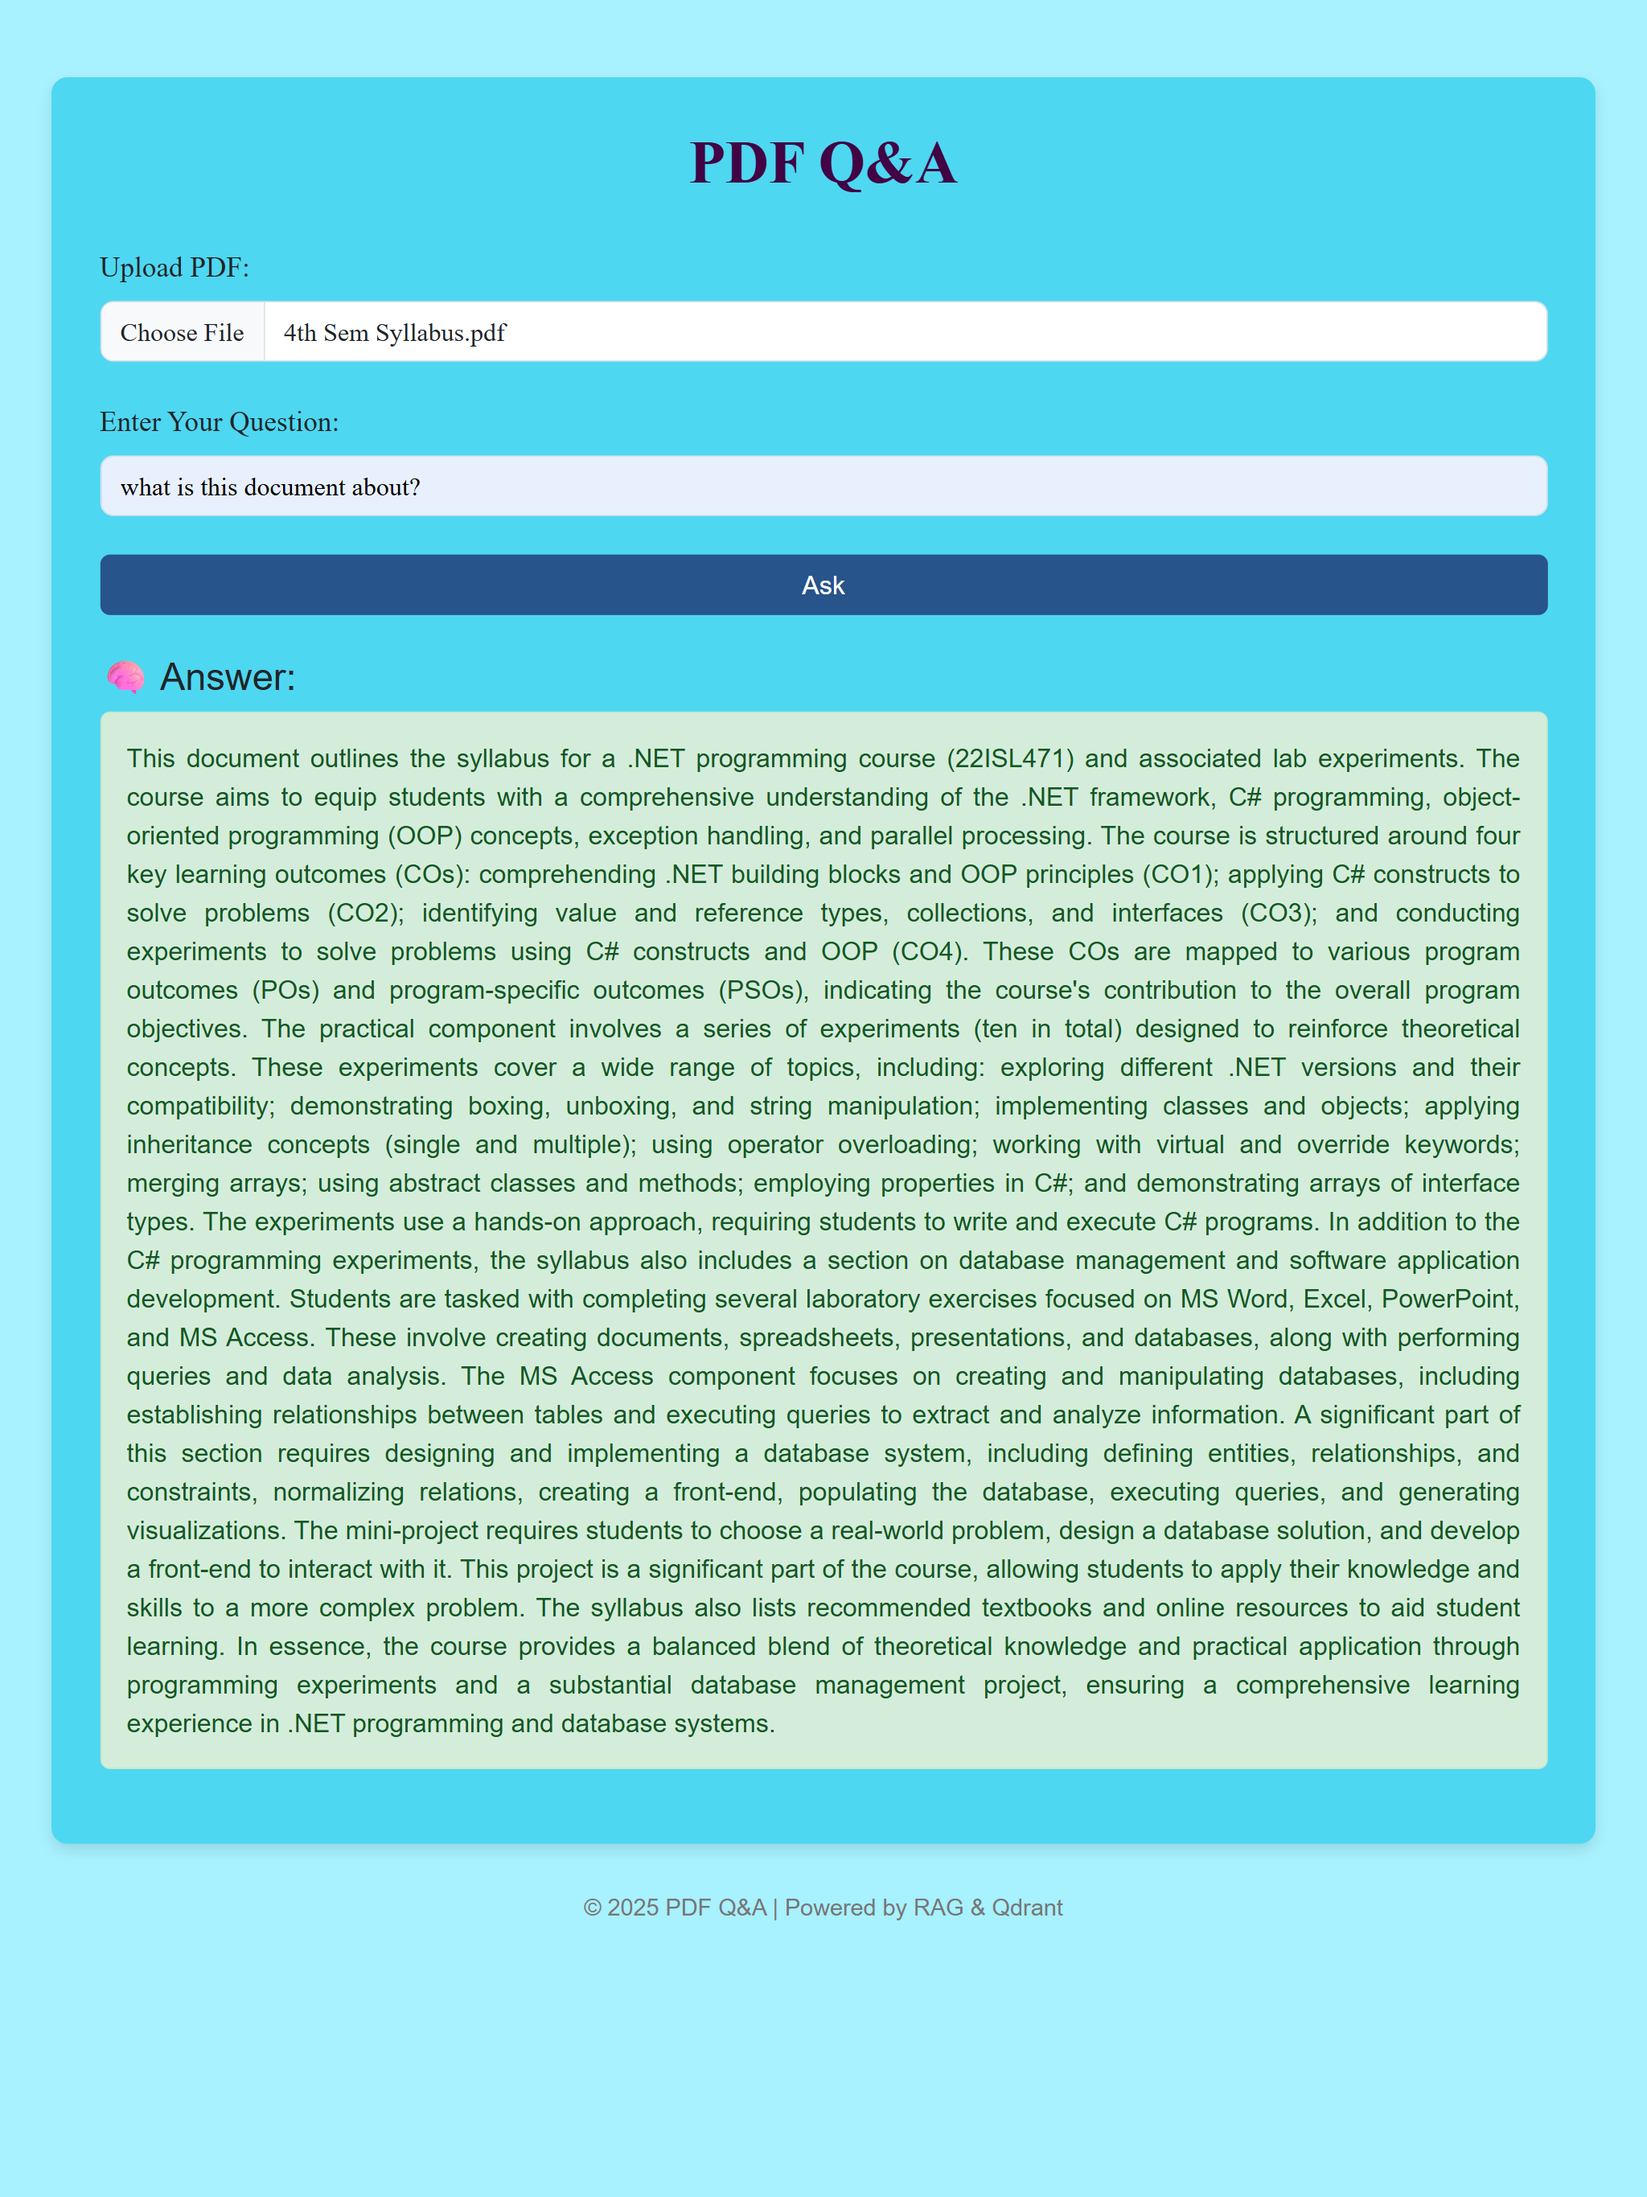
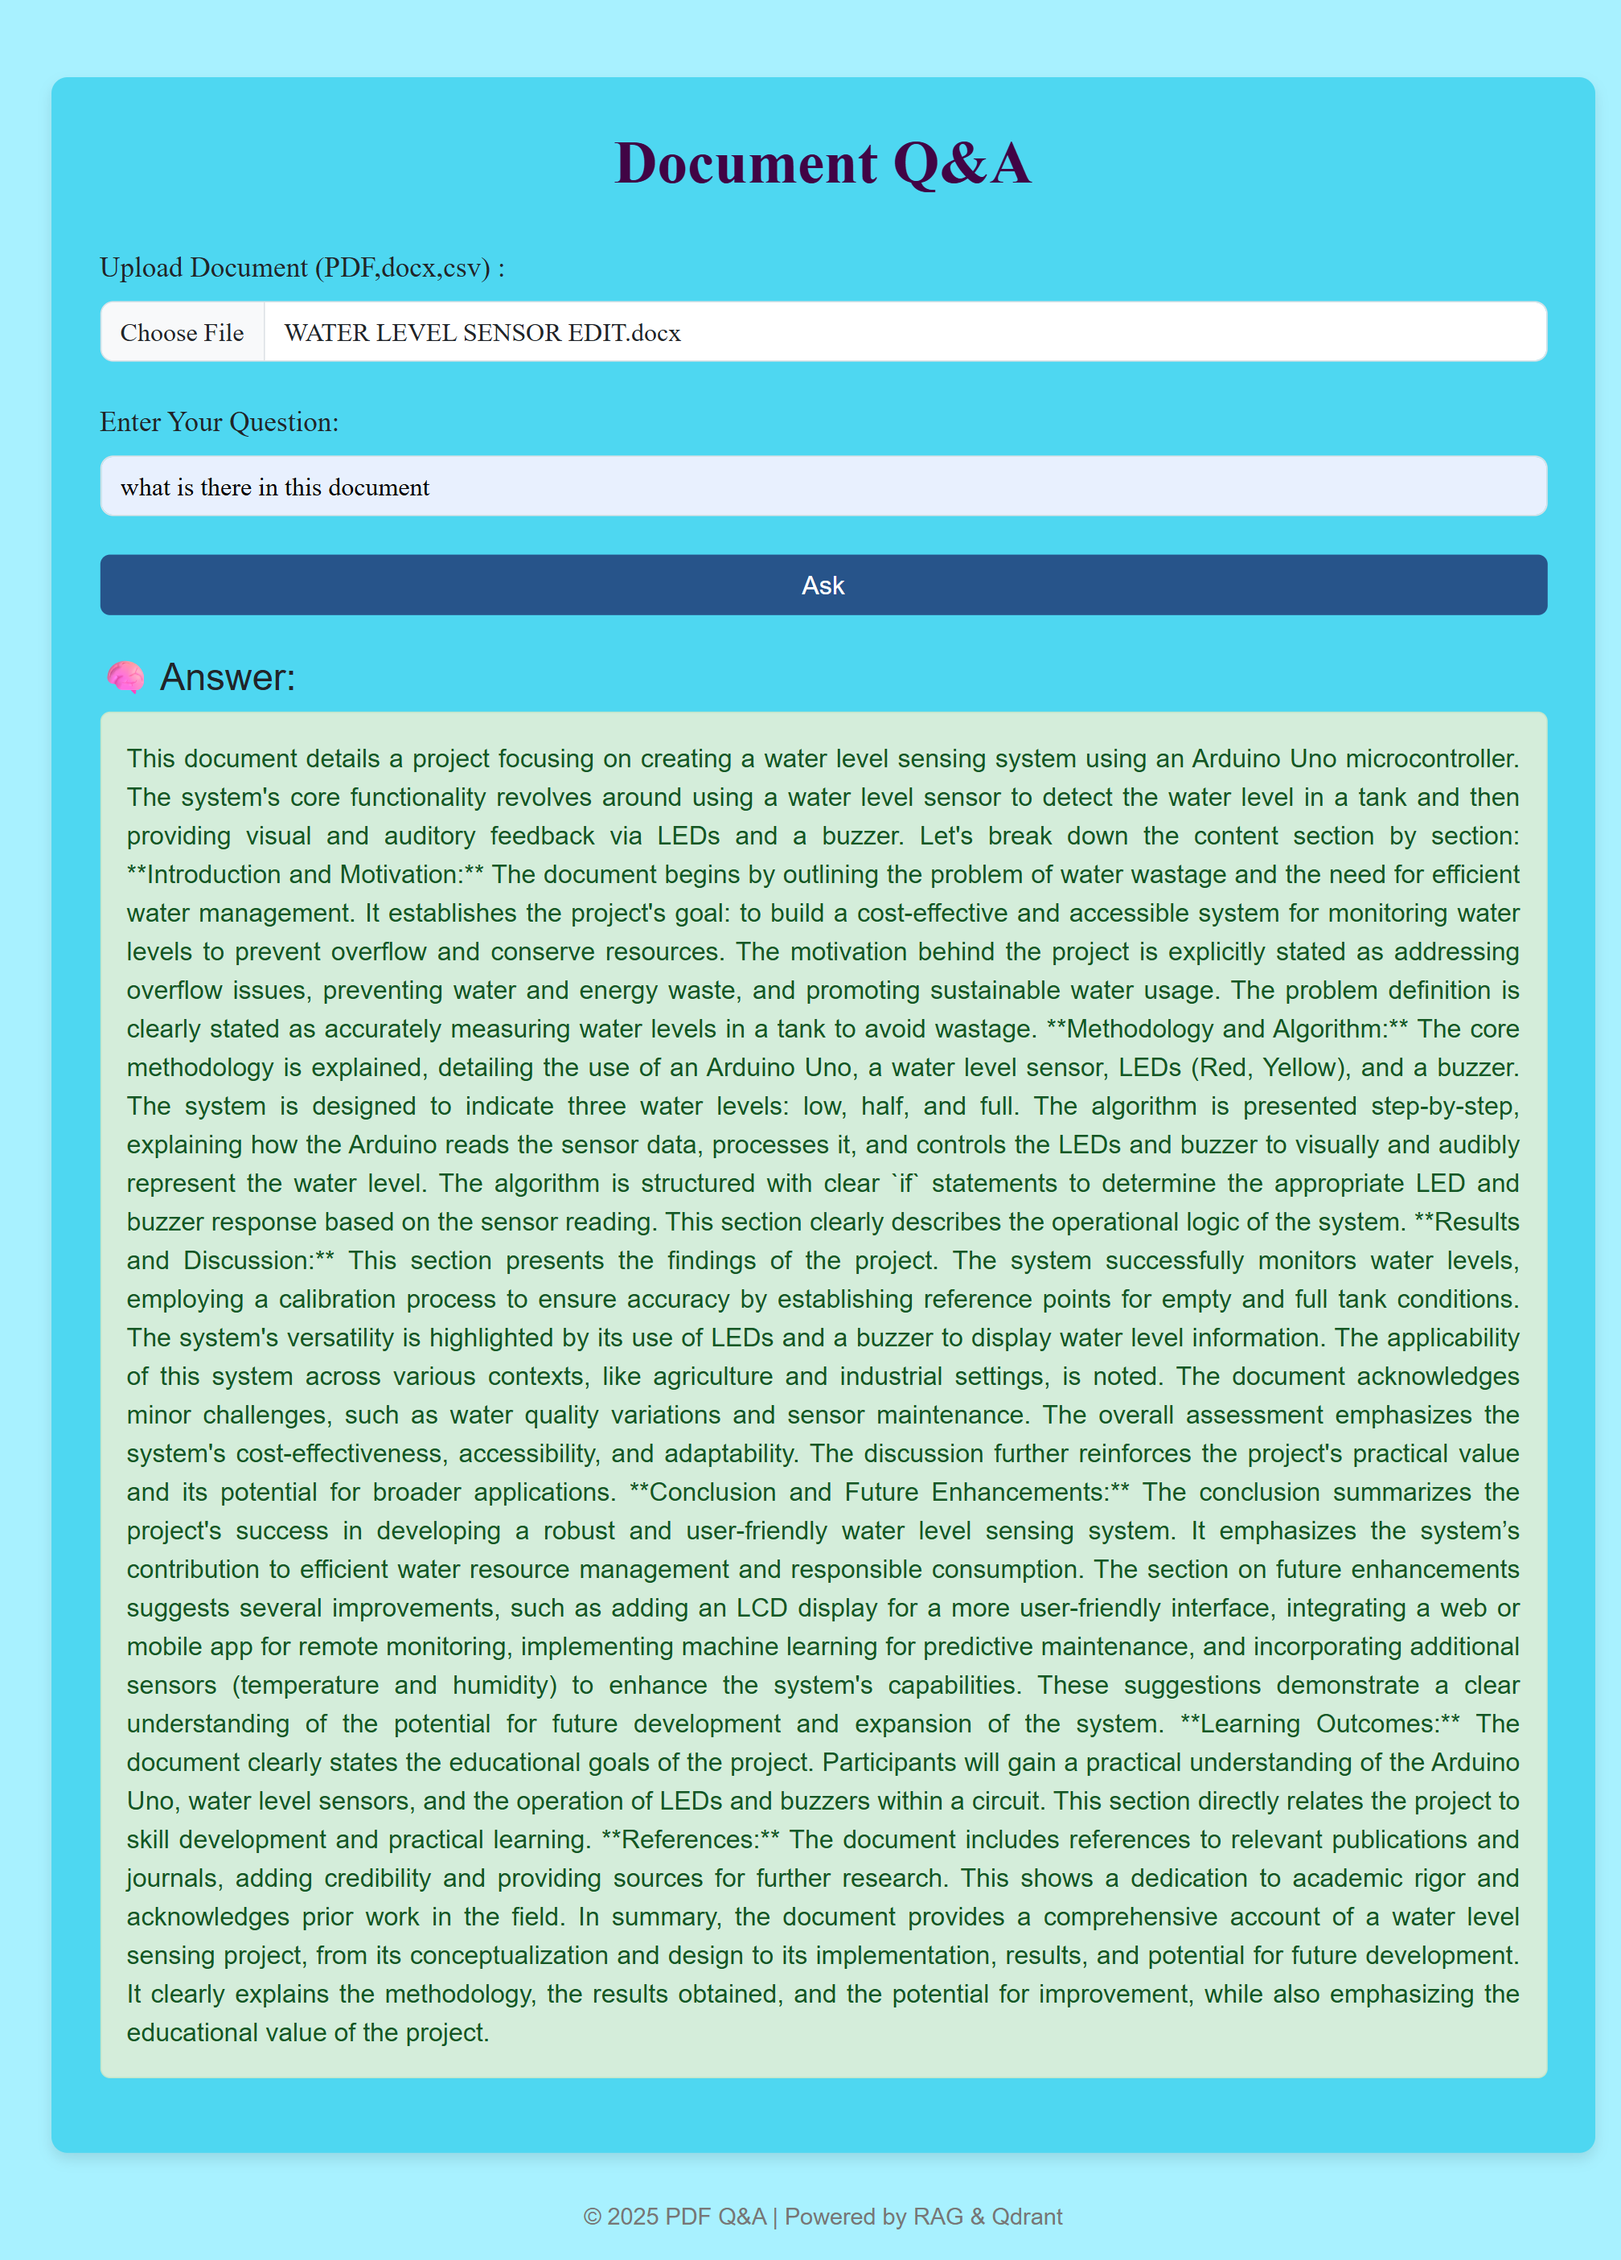
text

diff --git a/templates/index.html b/templates/index.html
@@ -3,7 +3,7 @@
 <head>
     <meta charset="UTF-8">
     <meta name="viewport" content="width=device-width, initial-scale=1.0">
-    <title>PDF Q&A with RAG</title>
+    <title>Document Q&A </title>
     <link rel="stylesheet" href="https://cdn.jsdelivr.net/npm/bootstrap@5.3.3/dist/css/bootstrap.min.css">
     <style>
         body {
@@ -74,12 +74,12 @@
 <body>
 
 <div class="container mt-5">
-    <h1>PDF Q&A</h1>
+    <h1>Document Q&A</h1>
 
     <form method="POST" enctype="multipart/form-data">
         <div class="mb-4">
-            <label for="pdf" class="form-label">Upload PDF:</label>
-            <input class="form-control" type="file" name="pdf" accept=".pdf" required>
+            <label for="pdf" class="form-label">Upload Document (PDF,docx,csv) :</label>
+            <input class="form-control" type="file" name="pdf" accept=".pdf,.docx,.csv" required>
         </div>
 
         <div class="mb-4">

diff --git a/main.py b/main.py
@@ -1,16 +1,16 @@
 import tensorflow as tf
 tf.get_logger().setLevel('ERROR')
 import os
+#import pandas as pd 
+
 from flask import Flask, request, render_template
 from werkzeug.utils import secure_filename
 from dotenv import load_dotenv
 
-from pdf_parser import extract_text_from_pdf
+from pdf_parser import extract_text  # Unified extractor for PDF, DOCX, CSV
 from chunk_embed import chunk_text, get_embeddings, embed_query
 from qdrant_manager import setup_collection, upload_to_qdrant, search_chunks
 from rag_answer import generate_answer
-
-
 
 load_dotenv()
 QDRANT_API_KEY = os.getenv('QDRANT_API_KEY')
@@ -27,28 +27,34 @@ COLLECTION_NAME = "pdf_collection"
 def index():
     answer = ""
     if request.method == 'POST':
-        pdf = request.files.get('pdf')
+        uploaded_file = request.files.get('pdf')  # Can be PDF/DOCX/CSV
         question = request.form.get('question')
 
-        if pdf:
-            filename = secure_filename(pdf.filename)
+        if uploaded_file:
+            filename = secure_filename(uploaded_file.filename)
             filepath = os.path.join(app.config['UPLOAD_FOLDER'], filename)
-            pdf.save(filepath)
+            uploaded_file.save(filepath)
 
-            text = extract_text_from_pdf(filepath)
-            chunks = chunk_text(text)
-            embeddings = get_embeddings(chunks)
+            try:
+                text = extract_text(filepath)
+                chunks = chunk_text(text)
+                embeddings = get_embeddings(chunks)
 
-            setup_collection(COLLECTION_NAME)
-            upload_to_qdrant(COLLECTION_NAME, chunks, embeddings)
+                setup_collection(COLLECTION_NAME)
+                upload_to_qdrant(COLLECTION_NAME, chunks, embeddings)
+            except Exception as e:
+                answer = f"Error processing file: {e}"
 
         if question:
-            query_vector = embed_query(question)
-            context_chunks = search_chunks(COLLECTION_NAME, query_vector)
-            context = " ".join(context_chunks)
-            answer = generate_answer(context, question)
+            try:
+                query_vector = embed_query(question)
+                context_chunks = search_chunks(COLLECTION_NAME, query_vector)
+                context = " ".join(context_chunks)
+                answer = generate_answer(context, question)
+            except Exception as e:
+                answer = f"Error generating answer: {e}"
 
     return render_template('index.html', answer=answer)
 
 if __name__ == "__main__":
-    app.run(debug=True)  # This starts the Flask app
+    app.run(debug=True)

diff --git a/pdf_parser.py b/pdf_parser.py
@@ -1,5 +1,29 @@
+# pdf_parser.py
+#import pandas as pd 
 import fitz  # PyMuPDF
+import docx
+import os
+
+def extract_text(file_path):
+    ext = os.path.splitext(file_path)[-1].lower()
+
+    if ext == '.pdf':
+        return extract_text_from_pdf(file_path)
+    elif ext == '.docx':
+        return extract_text_from_docx(file_path)
+    elif ext == '.csv':
+        return extract_text_from_csv(file_path)
+    else:
+        raise ValueError(f"Unsupported file type: {ext}")
 
 def extract_text_from_pdf(pdf_path):
     doc = fitz.open(pdf_path)
     return "\n".join([page.get_text() for page in doc])
+
+def extract_text_from_docx(docx_path):
+    doc = docx.Document(docx_path)
+    return "\n".join([para.text for para in doc.paragraphs])
+
+def extract_text_from_csv(csv_path):
+    df = pd.read_csv(csv_path)
+    return df.to_string(index=False)  # Optional: return df.head().to_string(index=False)

diff --git a/README.md b/README.md
@@ -1,6 +1,6 @@
-# 📄 PDF Q&A System with RAG using Qdrant & Gemini
+# 📄 Document Q&A System with RAG using Qdrant & Gemini
 
-This project is a **PDF Question Answering Web App** powered by **Qdrant vector search** and **Gemini 1.5 LLM**. Users can upload documents, ask natural language questions, and receive precise answers sourced directly from the document content using **Retrieval-Augmented Generation (RAG)**.
+This project is a **Document Question Answering Web App** powered by **Qdrant vector search** and **Gemini 1.5 LLM**. Users can upload documents, ask natural language questions, and receive precise answers sourced directly from the document content using **Retrieval-Augmented Generation (RAG)**.
 
 ---
 
@@ -8,7 +8,7 @@ This project is a **PDF Question Answering Web App** powered by **Qdrant vector 
 
 - 🧠 Semantic search with Qdrant vector database
 - 🤖 Context-aware answer generation using Gemini 1.5
-- 📂 Supports `.pdf` documents
+- 📂 Supports `.pdf`, `.docx`, `.csv` documents
 - 🗣 Gracefully handles unanswerable questions
 - 📱 Mobile-responsive UI built with Bootstrap
 
@@ -21,13 +21,13 @@ This project is a **PDF Question Answering Web App** powered by **Qdrant vector 
 - **Vector DB**: Qdrant Cloud / Self-hosted
 - **Embedding Model**: Gemini 1.5 Embeddings
 - **LLM**: Gemini 1.5 Flash
-- **Document Parsing**: `PyPDF2`
+- **Document Parsing**: `PyPDF2`,`python-docx`
 
 ---
 
 ## 📸 How It Works
 
-1. Upload a `.pdf` file.
+1. Upload a `.pdf`,`.docx`,`.csv` file.
 2. Enter a question in natural language.
 3. The system:
    - Extracts and chunks the text
